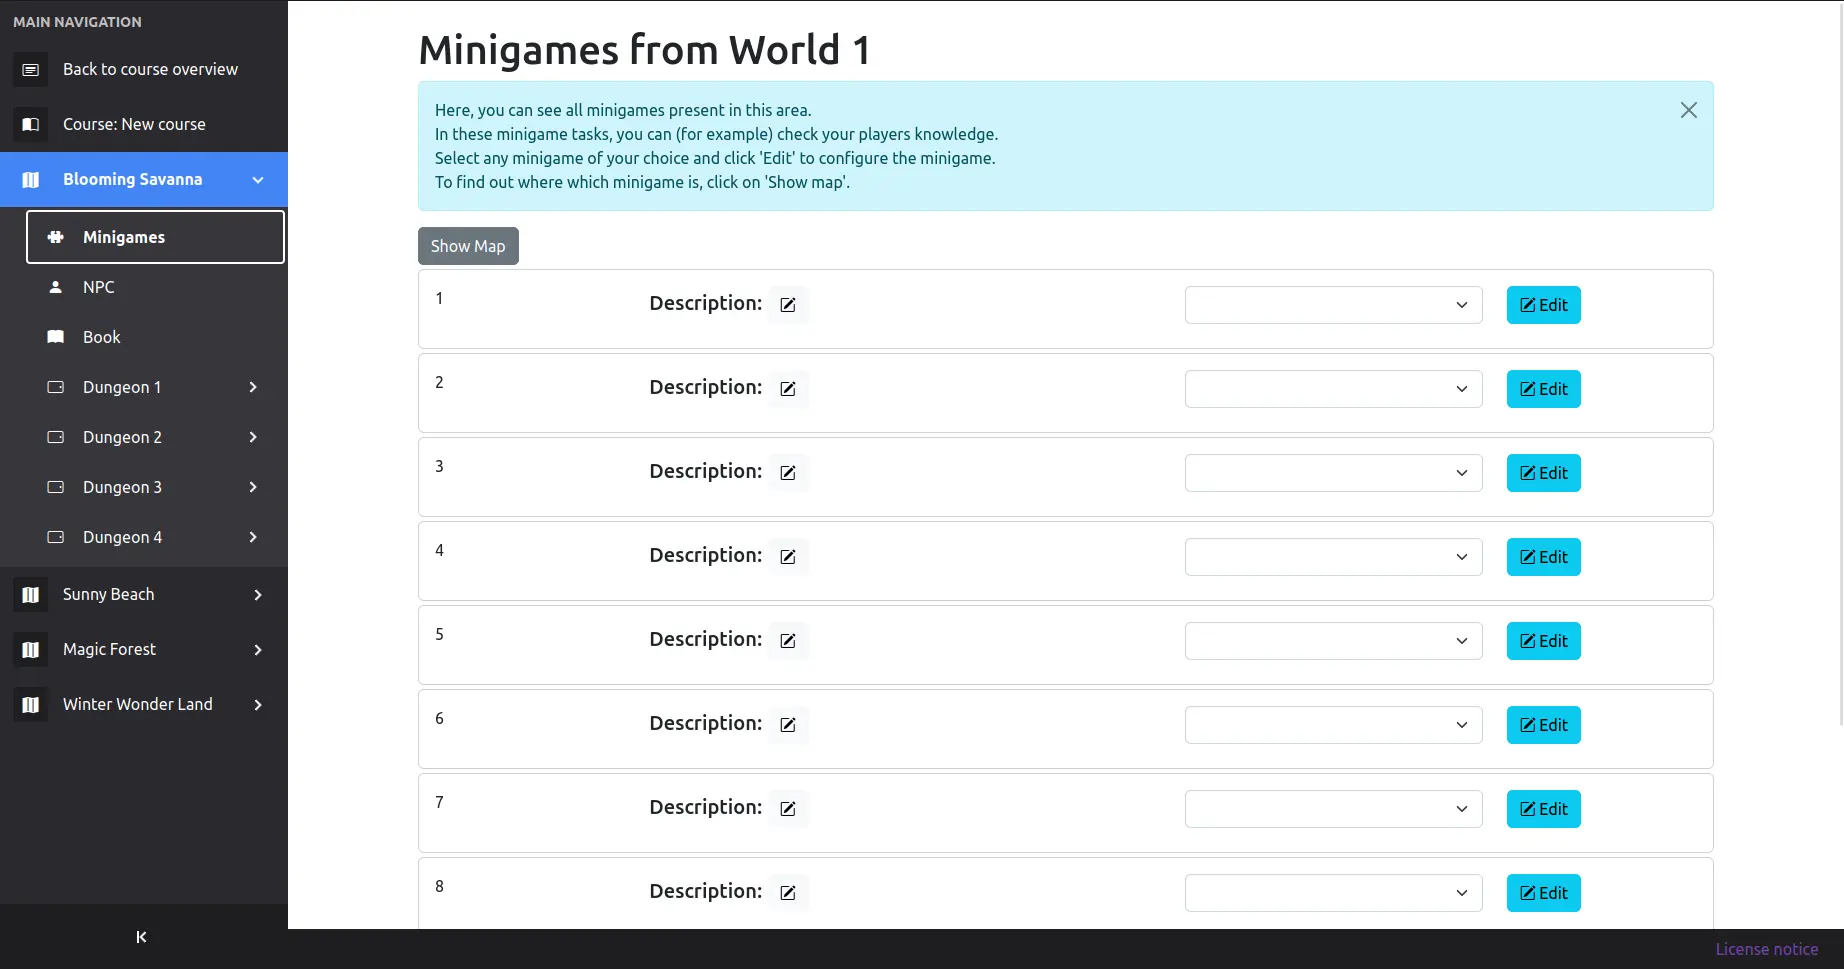
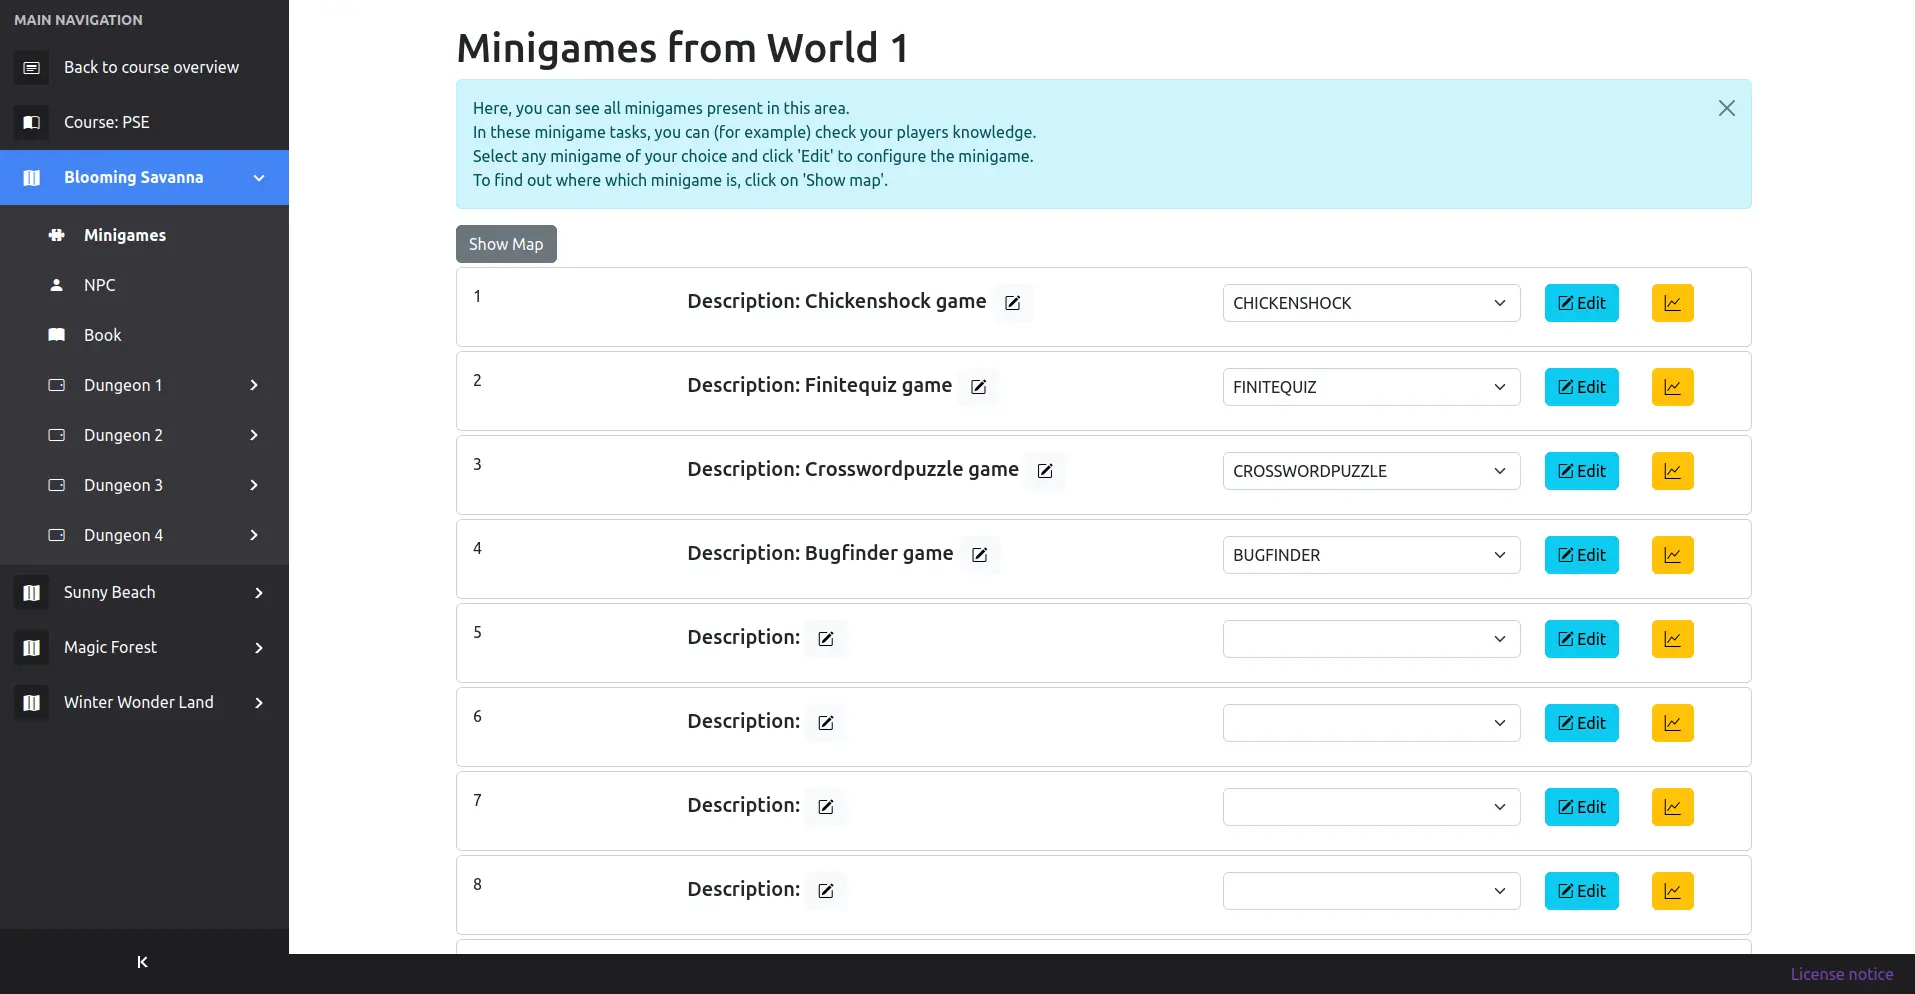
Update images with statistics in user manual (#206)

diff --git a/user-manuals/lecturer-interface/README.md b/user-manuals/lecturer-interface/README.md
@@ -18,6 +18,7 @@ After you created the course, the new course is displayed in the courses list.
 
 You can click on a course to view and configure this course.  
 You will get redirected to the course overview page.
+In addition, valuable statistics are presented to demonstrate the players' activity and progress.
 ![course overview](assets/course-overview.webp)
 
 The sidebar allows navigating between different configuration pages of the course.  
@@ -43,6 +44,8 @@ After selecting the minigame, you can start configuring the minigame by clicking
 After you configured the minigame, you need to save the configuration by clicking on the `Ok` button.  
 In order to be able to quickly find a specific minigame, it is recommended to set a description. This description will nowhere else be shown.
 ![minigame view](assets/minigame-view.webp)
+
+To view statistics related to the minigame, simply click on the statistics button located next to the Edit button.
 
 ### Configure area NPCs
 
